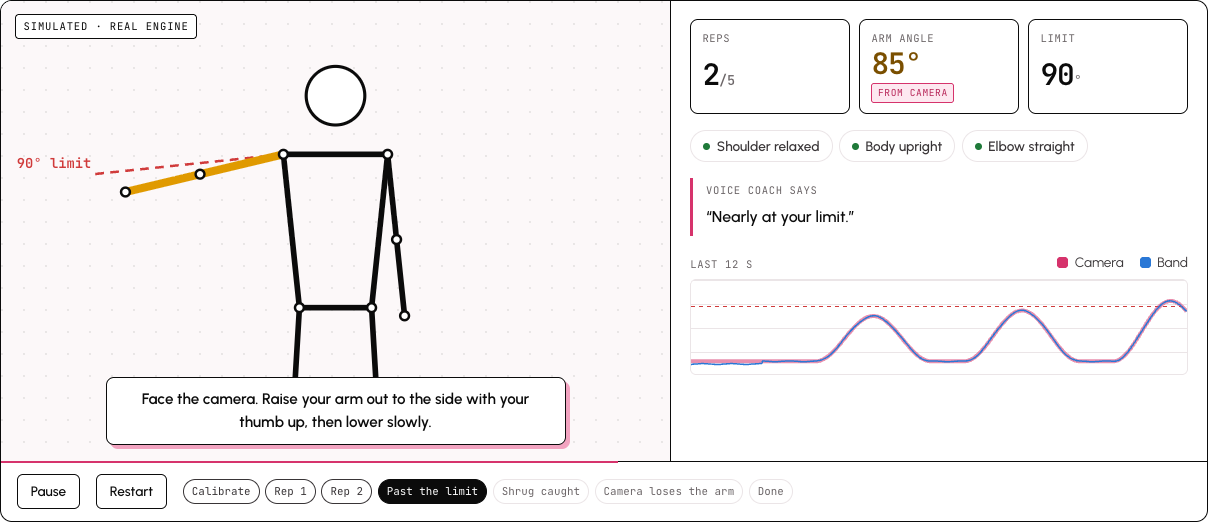
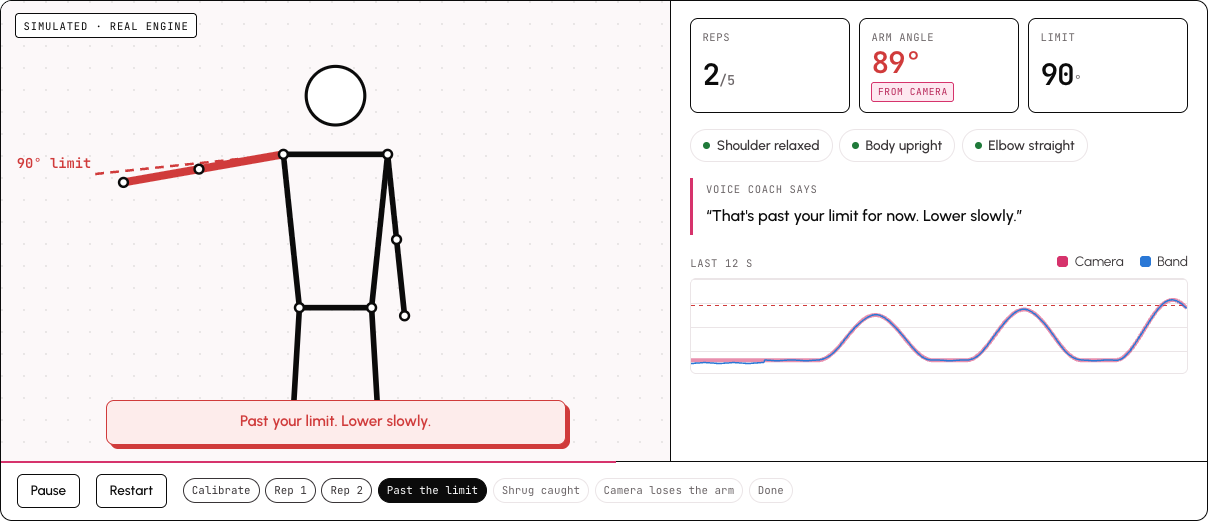
Rename the app to Haven
- APP_NAME, page titles and README title now say Haven.
- Gallery screenshots retaken with the new name.
- Phase bands on the range chart use index-qualified keys, since a
  patient can move back to an earlier phase.

The armband's BLE name prefix (RehabBand) is unchanged; it is part of
the firmware contract.

diff --git a/web/src/components/charts.tsx b/web/src/components/charts.tsx
@@ -208,7 +208,8 @@ export function LineChart({
             const x0 = Math.max(M.left, f.x(p.fromDay) - half);
             const x1 = Math.min(f.w - M.right, f.x(p.toDay) + half);
             return (
-              <g key={p.label} className={`phase phase-${i % 2}`}>
+              // Phases can repeat (a patient moved back a phase), so the index is part of the key.
+              <g key={`${p.label}-${i}`} className={`phase phase-${i % 2}`}>
                 <rect x={x0} width={Math.max(0, x1 - x0)} y={M.top} height={height - M.top - M.bottom} />
                 <text x={x0 + 6} y={M.top + 12}>
                   {p.label}

diff --git a/web/judges/index.html b/web/judges/index.html
@@ -5,7 +5,7 @@
     <meta name="viewport" content="width=device-width, initial-scale=1.0" />
     <link rel="icon" href="/favicon.svg" type="image/svg+xml" />
     <!-- Real file at /judges/ so static hosts serve the page without a rewrite rule. -->
-    <title>For judges · Rehab Coach</title>
+    <title>For judges · Haven</title>
   </head>
   <body>
     <div id="root"></div>

diff --git a/web/index.html b/web/index.html
@@ -4,7 +4,7 @@
     <meta charset="UTF-8" />
     <meta name="viewport" content="width=device-width, initial-scale=1.0" />
     <link rel="icon" href="/favicon.svg" type="image/svg+xml" />
-    <title>Rehab Coach</title>
+    <title>Haven</title>
   </head>
   <body>
     <div id="root"></div>

diff --git a/web/src/lib/brand.ts b/web/src/lib/brand.ts
@@ -1,2 +1,2 @@
 /** Shown in the nav, page titles and the judges page. Change it here. */
-export const APP_NAME = 'Rehab Coach';
+export const APP_NAME = 'Haven';

diff --git a/README.md b/README.md
@@ -1,10 +1,10 @@
-# Rehab Coach
+# Haven
 
 Guided shoulder rehab for people recovering from breast cancer surgery. A laptop camera measures arm angles live, enforces the care team's range limits, catches compensation (shrugging, leaning, bent elbow), and coaches by voice. An ESP32 + IMU armband fills in when the camera loses the arm and logs how much the arm is used in daily life. Everything feeds a progress dashboard and a Gemini-written report for the patient's physical therapist.
 
 **Design rule:** safety logic (limits, alerts, flags) is deterministic code. Gemini only writes prose about numbers it is handed; it never decides a flag, and the server rejects any number in its text that isn't in the data.
 
-The app name is a placeholder: change `APP_NAME` in `web/src/lib/brand.ts`.
+The app name lives in one place: `APP_NAME` in `web/src/lib/brand.ts`.
 
 ## Layout
 
